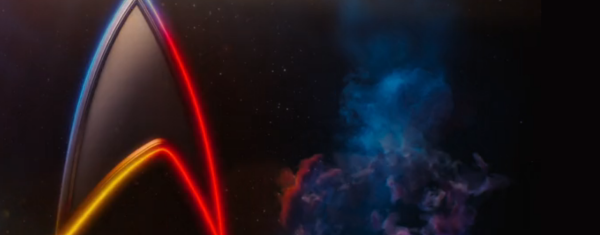
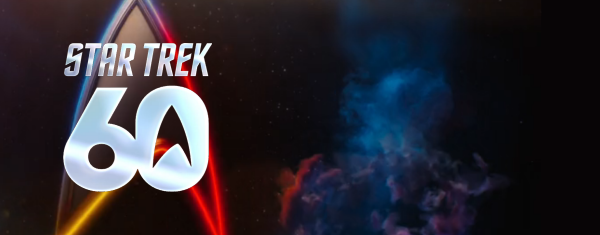
1.4.5.1

Changed region(s): [[0.09, 0.3574, 0.36, 0.834], [0.09, 0.1787, 0.36, 0.3277]]

diff --git a/index.html b/index.html
@@ -29,7 +29,6 @@
 
 <script src="random-review.js"></script>
 <script src="main-marquee.js"></script>
-<script src="https://app.embed.im/snow.js" defer></script>
 
 <style>
 
@@ -43,8 +42,8 @@
 <div id='kofiframediv'><iframe id="kofiframe" src='loader.html' title="kofi frame"></iframe><span id="koficlose" onclick="document.getElementById('kofiframediv').style.height='0px';document.getElementById('kofiframediv').style.border='none';">&times;</span></div>
 
 <div class="c6Left"><a href="index.html"><img src="images/c6reviews-vert.png" alt="c6reviews"></a></div>
-	<div class="pageTitleImage"><img src="images/main-header-holiday.png" alt="Starfleet delta" style="mask-image: linear-gradient(to right, rgba(0,0,0,1), rgba(0,0,0,0.8) 40%, rgba(0,0,0,0))">
-		<img class="pageTitleRightImage" src="images/picard-christmas.png" style="mask-image: linear-gradient(to left, rgba(0,0,0,1), rgba(0,0,0,0.8) 60%, rgba(0,0,0,0))">
+	<div class="pageTitleImage"><img src="images/main-header.png" alt="Starfleet delta" style="mask-image: linear-gradient(to right, rgba(0,0,0,1), rgba(0,0,0,0.8) 40%, rgba(0,0,0,0))">
+		<!--<img class="pageTitleRightImage" src="images/picard-christmas.png" style="mask-image: linear-gradient(to left, rgba(0,0,0,1), rgba(0,0,0,0.8) 60%, rgba(0,0,0,0))">-->
 	</div>
 	<div class="pageTitleContainer">
 		<div class="pageTitle">
@@ -73,13 +72,6 @@
 						<div class="marqueeSubtitle">Exclusive Clip</div>
 						<div class="marqueeContent">Some folks are being even more of a nitpicker than I am with the latest <em>Star&nbsp;Trek:&nbsp;Starfleet&nbsp;Academy</em> exclusive clip that dropped December 6th! <a href="blog/2025-12-13-SA_Exclusive_Clip.html">Read more ❱</a><br><br>
 						<em>Starfleet&nbsp;Academy</em> will premiere January 15, 2026.
-						</div>
-					</div>
-					<div class="marquee-page" style="padding-left:425px;">
-						<img class="marqueeImg" src="images/marquee/SNWs4.png" alt="a dorsal view of the Enterprise above a brilliant orange nebula">
-						<div class="marqueeTitle">STAR TREK: STRANGE NEW WORLDS</div>
-						<div class="marqueeSubtitle">Season 4 Clip and Season 3 Reflections</div>
-						<div class="marqueeContent"><em>Star&nbsp;Trek:&nbsp;Strange&nbsp;New&nbsp;Worlds</em> teased a clip from its Season 4 at the New York Comic Con in October. It made me think about how Season 3 felt just a little hollow. <a href="blog/2025-11-13-SNW_S4_Clip_and_S3_Reflections.html">Read more ❱</a>
 						</div>
 					</div>
 					<div class="marquee-page">

diff --git a/updates.html b/updates.html
@@ -74,6 +74,13 @@
 			<th style="text-align:left;padding-left: 35px;">Description</th>
 		</tr>
 		<tr>
+			<td><span class="updateDate" style="color:#999">January 1, 2026</span></td>
+			<td style="color:#999">1.4.5.1</td>
+			<td>
+				<div class="miniUpdate">Mini update: Santa hat and snow effect removed from the Home page. Star Trek 60th branding added to the site. Happy new year!</div>
+			</td>
+		</tr>
+		<tr>
 			<td><span class="updateDate">December 21, 2025</span></td>
 			<td>1.4.5</td>
 			<td>
